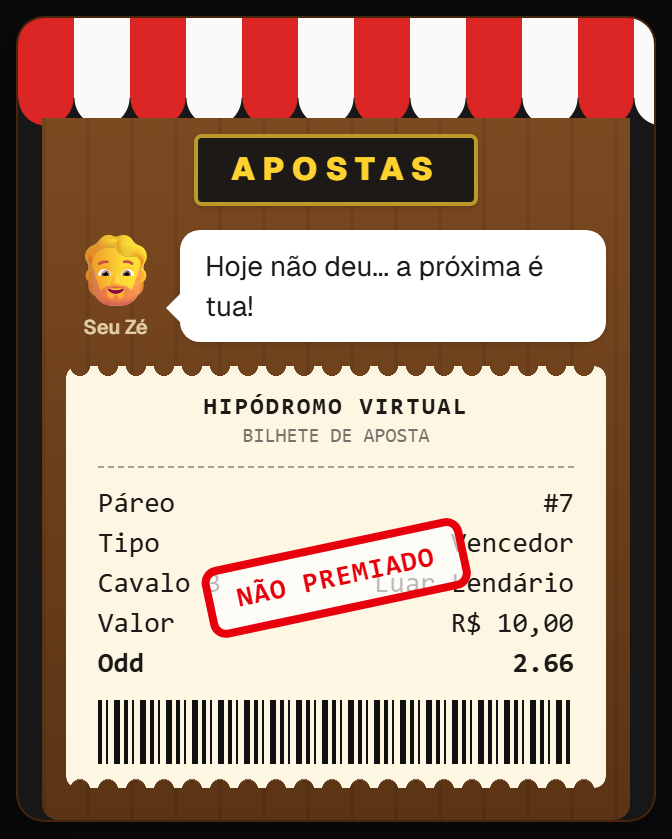
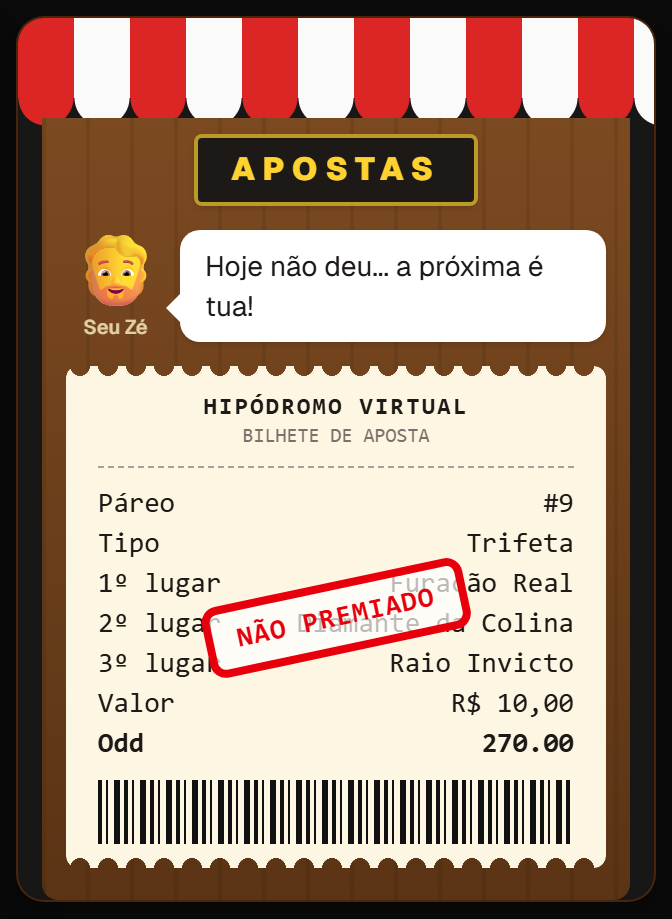
README com as novidades, prints novos e torre sem tremedeira
- README: elenco fixo, jóqueis, Grande Prêmio, exata/trifeta, missões, câmera e trilha sonora
- Novas capturas de tela (Grande Prêmio, missões, estábulo com fichas, trifeta)
- Torre de classificação: cavalos colados (menos de 1,5 m) mantêm a ordem anterior,
  evitando linhas trocando a cada quadro e se sobrepondo

diff --git a/frontend/src/App.tsx b/frontend/src/App.tsx
@@ -139,6 +139,7 @@ export default function App() {
   const [tip, setTip] = useState<string | null>(null) // Seu Zé's reason for his suggested horse
   const [slowmo, setSlowmo] = useState(false) // photo-finish slow motion is playing
   const raf = useRef(0)
+  const prevRankRef = useRef<number[]>([]) // last live order shown in the tower
   const speedRef = useRef(1)
   const busy = running || countdown !== null
   const needed = picksNeeded[betType]
@@ -397,7 +398,19 @@ export default function App() {
   // While racing (and right after), the track shows the race that ran, not the next race card.
   const shown: RaceInfo | null = (busy || result) && bet ? bet.race : race
   const betIds = (busy || result) && bet ? bet.picks.map((p) => p.id) : []
-  const ranking = positions && shown ? [...shown.horses].sort((x, y) => positions[y.id] - positions[x.id]) : null
+  // Live order with hysteresis: horses within 1.5 m keep their previous order, so two horses running
+  // neck and neck don't swap rows every frame (the tower's slide animation would never settle).
+  const prevRank = prevRankRef.current
+  const ranking =
+    positions && shown
+      ? [...shown.horses].sort((x, y) => {
+          const d = positions[y.id] - positions[x.id]
+          return Math.abs(d) < 1.5 && prevRank.includes(x.id) && prevRank.includes(y.id)
+            ? prevRank.indexOf(x.id) - prevRank.indexOf(y.id)
+            : d
+        })
+      : null
+  prevRankRef.current = ranking ? ranking.map((h) => h.id) : []
   const towerTitle = running ? "AO VIVO" : result && !busy ? "RESULTADO" : "GRID · ODDS"
   const towerRows: TowerRow[] = !shown
     ? []

diff --git a/README.md b/README.md
@@ -24,20 +24,25 @@
 
 ## ✨ Destaques
 
-- 📺 **Corrida transmitida numa TV**, com placar de tempo, narração na tarja e **classificação estilo F1** sobreposta à imagem.
+- 📺 **Corrida transmitida numa TV**, com **câmera que acompanha o líder**, minimapa, narração na tarja e **classificação estilo F1** sobreposta à imagem.
 - 🎲 **O servidor decide a corrida.** O navegador só reproduz os quadros, então não dá pra trapacear pelo console.
 - 📈 **Odds honestas**: cada páreo é simulado **3.000 vezes** (Monte Carlo) antes de abrir, com 10% de margem da casa.
-- 🏇 **Cavalos com nomes sorteados** e uma característica cada: 💧 gosta de lama, 🏅 bom na superfície ou 💪 fôlego longo.
+- 🐴 **Elenco fixo de 30 cavalos** que voltam a correr, cada um com **ficha dos últimos resultados** e uma característica: 💧 gosta de lama, 🏅 bom numa superfície ou 💪 fôlego longo.
+- 🏇 **8 jóqueis** com nome, cor e estrelas de habilidade.
 - 🌦 **Pistas variadas**: grama, areia e terra; seca, molhada ou pesada (terra + chuva = **barro**); 800 a 1600 m; e **corridas noturnas** sob holofotes.
-- 🎟 **Três tipos de aposta**: Vencedor, Placê (1º ou 2º) e Dupla (1º e 2º em qualquer ordem).
-- 🎪 **Guichê de apostas** com o Seu Zé, fichas de cassino e **bilhete impresso** com carimbo de PAGO ou NÃO PREMIADO.
-- 🏆 **12 troféus**, **níveis com XP**, sequência de vitórias, **bônus diário** e histórico num quadro-negro.
-- 🔊 **Sons sintetizados** (sem arquivos de áudio): cascos, sino de largada, torcida e **narração falada** em português.
+- 🏆 **Grande Prêmio a cada 10 páreos**: 2400 m, 8 cavalos, odds sem margem da casa e XP em dobro.
+- 🎟 **Cinco tipos de aposta**: Vencedor, Placê (1º ou 2º), Dupla (1º e 2º em qualquer ordem), **Exata** (1º e 2º na ordem) e **Trifeta** (1º, 2º e 3º na ordem).
+- 🎪 **Guichê de apostas** com o Seu Zé (que até dá palpites), fichas de cassino e **bilhete impresso** com carimbo de PAGO ou NÃO PREMIADO.
+- 📋 **Missões diárias**, **14 troféus**, **níveis com XP**, sequência de vitórias, **bônus diário** e histórico num quadro-negro.
+- 🔊 **Áudio 100% sintetizado** (sem arquivos): trilha sonora, cascos, sino de largada, torcida e **narração falada** em português.
 - 🎥 **Câmera lenta no photo finish** e botão de **rever corrida**.
 
 ## 📸 Telas
 
 <table>
+  <tr>
+    <td colspan="2"><img src="docs/screenshots/gp.png" alt="Grande Prêmio com 8 cavalos na TV dourada" /><br /><sub><b>Grande Prêmio</b>: 8 cavalos em 2400 m, TV dourada, câmera seguindo o líder e minimapa no canto.</sub></td>
+  </tr>
   <tr>
     <td width="50%"><img src="docs/screenshots/night.png" alt="Corrida noturna com holofotes" /><br /><sub><b>Corrida noturna</b>: pista escura com holofotes e a torre de classificação ao vivo.</sub></td>
     <td width="50%"><img src="docs/screenshots/barro.png" alt="Corrida no barro debaixo de chuva" /><br /><sub><b>Barro debaixo de chuva</b>: terra pesada, poças e lama saindo dos cascos.</sub></td>
@@ -46,16 +51,19 @@
     <td colspan="2"><img src="docs/screenshots/result.png" alt="Resultado da corrida com diferenças de tempo e pódio" /><br /><sub><b>Resultado</b>: diferenças de tempo pro vencedor, pódio e botão de rever a corrida.</sub></td>
   </tr>
   <tr>
-    <td colspan="2"><img src="docs/screenshots/stable.png" alt="Estábulo com as baias dos cavalos" /><br /><sub><b>Estábulo</b>: uma baia por cavalo, com odds em giz e a característica de cada um.</sub></td>
+    <td colspan="2"><img src="docs/screenshots/stable.png" alt="Estábulo com as baias dos cavalos, jóqueis e fichas" /><br /><sub><b>Estábulo</b>: uma baia por cavalo, com jóquei, odds em giz, característica e a ficha das últimas corridas. Os selos 1º, 2º e 3º mostram uma trifeta sendo montada.</sub></td>
   </tr>
 </table>
 
 <table>
   <tr>
-    <td width="25%"><img src="docs/screenshots/booth.png" alt="Guichê de apostas com o palpite do Seu Zé" /><br /><sub><b>Guichê</b> com o palpite do Seu Zé.</sub></td>
-    <td width="25%"><img src="docs/screenshots/ticket.png" alt="Bilhete de aposta carimbado" /><br /><sub><b>Bilhete</b> carimbado no fim da corrida.</sub></td>
-    <td width="25%"><img src="docs/screenshots/trophies.png" alt="Estante de troféus" /><br /><sub><b>Estante de troféus</b>.</sub></td>
-    <td width="25%"><img src="docs/screenshots/board.png" alt="Quadro-negro com o histórico de apostas" /><br /><sub><b>Quadro</b> com os últimos páreos.</sub></td>
+    <td width="33%"><img src="docs/screenshots/booth.png" alt="Guichê de apostas montando uma trifeta" /><br /><sub><b>Guichê</b> montando uma trifeta.</sub></td>
+    <td width="33%"><img src="docs/screenshots/ticket.png" alt="Bilhete de aposta carimbado" /><br /><sub><b>Bilhete</b> carimbado no fim da corrida.</sub></td>
+    <td width="33%"><img src="docs/screenshots/missions.png" alt="Prancheta com as missões do dia" /><br /><sub><b>Missões do dia</b>.</sub></td>
+  </tr>
+  <tr>
+    <td width="33%"><img src="docs/screenshots/trophies.png" alt="Estante de troféus" /><br /><sub><b>Estante de troféus</b>.</sub></td>
+    <td width="33%" colspan="2"><img src="docs/screenshots/board.png" alt="Quadro-negro com o histórico de apostas" /><br /><sub><b>Quadro</b> com os últimos páreos.</sub></td>
   </tr>
 </table>
 
@@ -82,7 +90,7 @@ Abra **http://localhost:8080** e boas apostas.
 
 | Tecla | Ação |
 | --- | --- |
-| `1` a `6` | Escolhe o cavalo |
+| `1` a `8` | Escolhe o cavalo (na Exata e na Trifeta, na ordem de chegada) |
 | `Enter` | Aposta e larga |
 
 ## 🧠 Como funciona
@@ -104,8 +112,8 @@ flowchart LR
     API <--> Save
 ```
 
-1. **Ao abrir um páreo**, o servidor sorteia 6 cavalos, a superfície, a condição da pista e a distância, e simula a corrida 3.000 vezes pra calcular as odds de **vencedor**, **placê** e de cada **dupla**.
-2. **Cada cavalo** tem atributos escondidos (velocidade, fôlego, aceleração, arrancada final e afinidade com a pista). A velocidade muda de forma suave a cada quadro: os cavalos aceleram na largada, cansam e arrancam no fim.
+1. **Ao abrir um páreo**, o servidor escala 6 cavalos do elenco (2 de cada característica; 8 no Grande Prêmio), sorteia jóqueis, superfície, condição da pista e distância, e simula a corrida 3.000 vezes pra calcular as odds de **vencedor**, **placê**, **dupla**, **exata** e **trifeta**.
+2. **Cada cavalo do elenco** tem atributos escondidos e fixos (velocidade, fôlego, aceleração, arrancada final e afinidade com lama ou com uma superfície). O jóquei soma um pouco de velocidade. A velocidade muda de forma suave a cada quadro: os cavalos aceleram na largada, cansam e arrancam no fim. A ficha de cada cavalo guarda os últimos 5 resultados.
 3. **Ao apostar**, o servidor valida a aposta, roda a corrida de verdade, paga o prêmio (em centavos) e devolve todos os quadros da corrida.
 4. **O navegador só anima** esses quadros, com narração, classificação e sons.
 
@@ -113,12 +121,12 @@ flowchart LR
 
 | Método | Rota | O que faz |
 | --- | --- | --- |
-| `GET` | `/api/race` | Páreo atual, odds, saldo, estatísticas e disponibilidade do bônus |
-| `POST` | `/api/bet` | Faz a aposta `{ raceId, horseId, horse2, amount, type }` e devolve a corrida |
+| `GET` | `/api/race` | Páreo atual, odds, saldo, estatísticas, missões e disponibilidade do bônus |
+| `POST` | `/api/bet` | Faz a aposta `{ raceId, horseId, horse2, horse3, amount, type }` e devolve a corrida |
 | `POST` | `/api/bonus` | Resgata o bônus diário (uma vez por dia) |
 | `POST` | `/api/reset` | Recarrega o saldo para R$ 100,00 |
 
-Os valores são em **centavos** (`10000` = R$ 100,00). `type` é `win`, `place` ou `dupla`.
+Os valores são em **centavos** (`10000` = R$ 100,00). `type` é `win`, `place`, `dupla`, `exata` ou `trifeta`; na exata e na trifeta, `horseId`, `horse2` e `horse3` são o 1º, o 2º e o 3º.
 
 ## 📁 Estrutura
 
@@ -126,13 +134,14 @@ Os valores são em **centavos** (`10000` = R$ 100,00). `type` é `win`, `place` 
 .
 ├── backend/              # servidor Go (só biblioteca padrão)
 │   ├── main.go           # API, apostas, conquistas, níveis, bônus, salvamento
-│   ├── race.go           # cavalos, pistas, simulação e odds
+│   ├── race.go           # elenco, jóqueis, pistas, simulação e odds
+│   ├── missions.go       # missões diárias
 │   └── race_test.go      # testes
 ├── frontend/             # React + Vite + Tailwind + shadcn/ui
 │   └── src/
 │       ├── App.tsx       # tela principal, animação e narração
-│       ├── components/   # track, stable, booth, tower, trophies, board
-│       └── lib/sound.ts  # sons sintetizados e voz do narrador
+│       ├── components/   # track, stable, booth, tower, missions, trophies, board
+│       └── lib/sound.ts  # trilha sonora, efeitos sintetizados e voz do narrador
 └── docs/screenshots/     # imagens deste README
 ```
 
@@ -143,8 +152,8 @@ cd backend
 go test ./...
 ```
 
-Os testes cobrem: validação de apostas, ordem de chegada, pagamentos de vencedor, placê e dupla, margem da casa nas odds, uma característica por cavalo, salvamento, sequência de vitórias, conquistas, bônus diário e níveis.
+Os testes cobrem: validação de apostas, ordem de chegada, pagamentos de vencedor, placê, dupla, exata e trifeta, margem da casa nas odds, Grande Prêmio, elenco e fichas sobrevivendo ao reinício, distribuição das características, missões, sequência de vitórias, conquistas, bônus diário e níveis.
 
 ## 💾 Salvamento
 
-Saldo, estatísticas, histórico, troféus e XP ficam em `backend/save.json`. Apague esse arquivo para recomeçar do zero.
+Saldo, estatísticas, histórico, troféus, XP, missões e o elenco (com as fichas dos cavalos) ficam em `backend/save.json`. Apague esse arquivo para recomeçar do zero.
